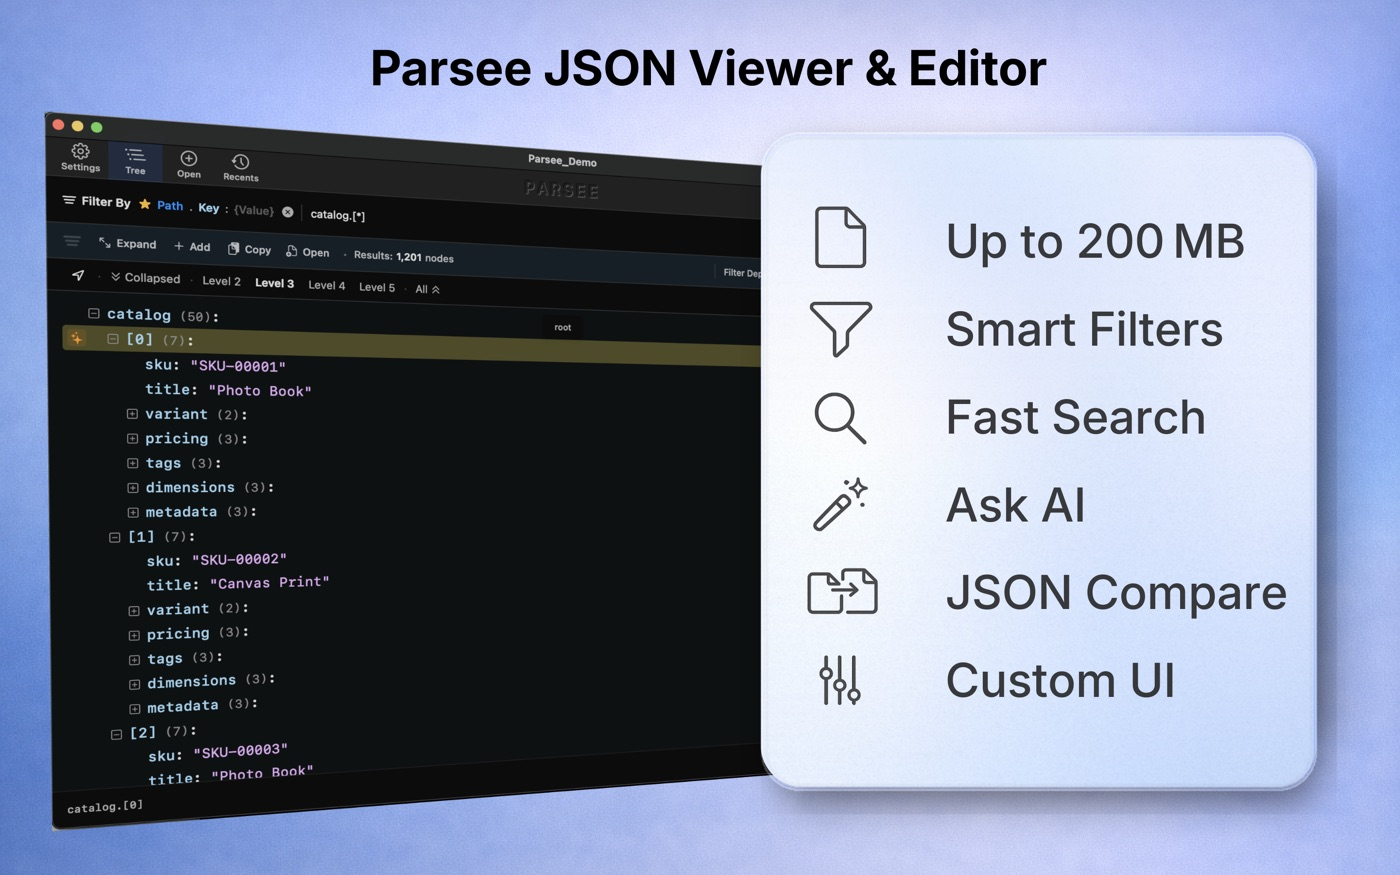
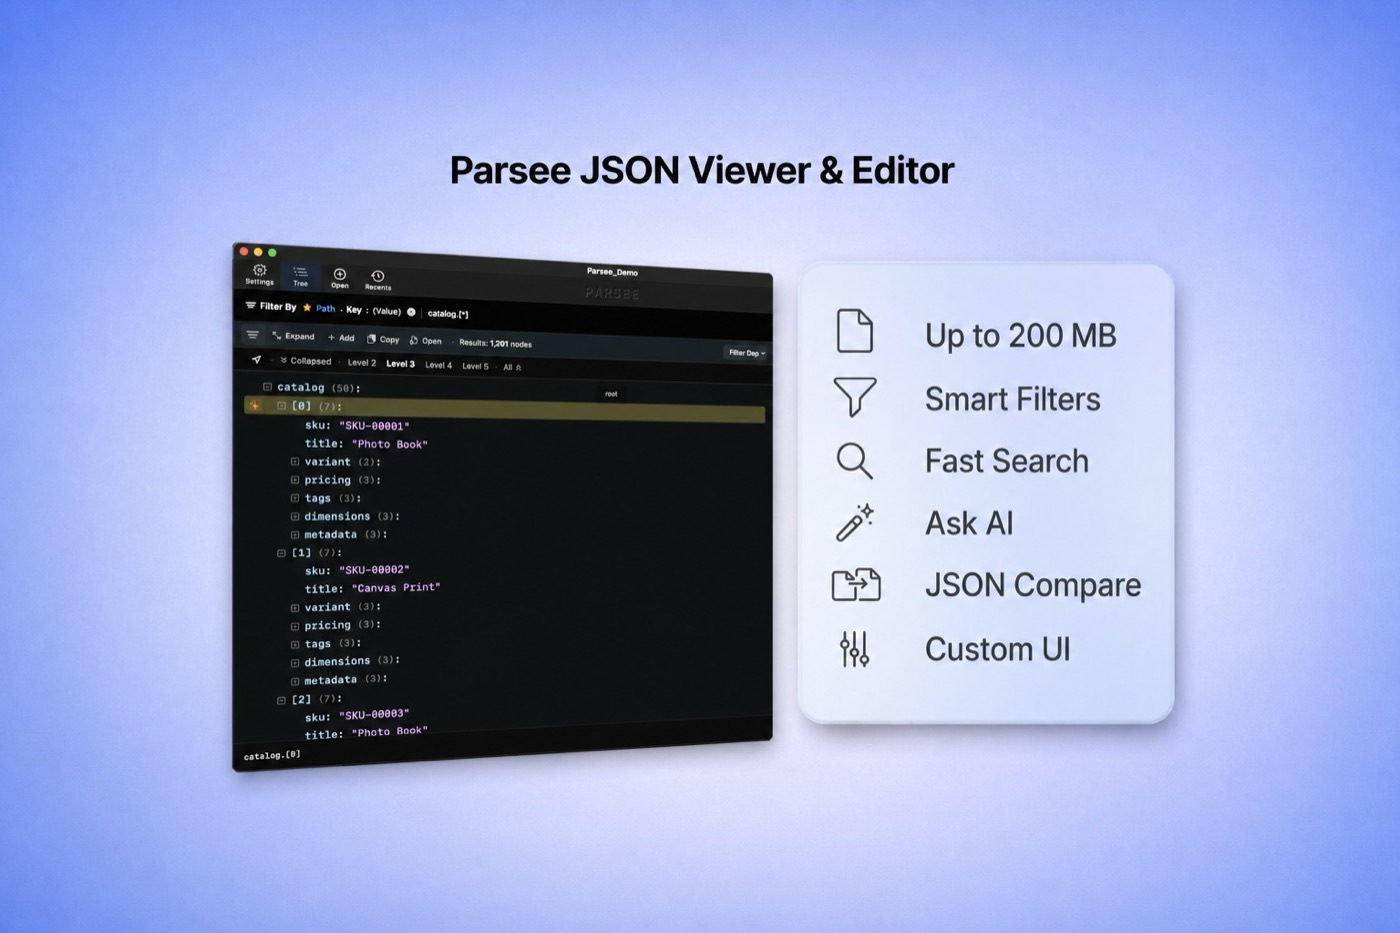
content: new Parsee hero image; Bond website link
- Replace Parsee hero with a wider-padded version of the same shot.
  The previous image had content reaching the right edge; this one
  has generous lavender padding around the window + feature panel,
  so we can safely use object-fit: cover to fill the cell without
  cropping anything important.
- styles: switch .app-visual-parsee img back to object-fit: cover
  now that the image has padding to spare.
- Add a "Visit site →" CTA on the Bond card pointing at
  https://nimomix.github.io/bond-app/en/.

diff --git a/index.html b/index.html
@@ -73,6 +73,9 @@
           <h3 class="app-name">Bond</h3>
           <p class="app-tag">Agreements made simple.</p>
           <p class="app-desc">Create, share, sign, and track personal agreements with the people who matter most. Coffee owed, freelance contract, or anything in between — iOS first, Hebrew &amp; English.</p>
+          <div class="app-cta">
+            <a class="btn btn-primary" href="https://nimomix.github.io/bond-app/en/">Visit site →</a>
+          </div>
         </div>
         <div class="app-visual app-visual-bond">
           <img src="images/bond-onboarding.png" alt="Bond iPhone onboarding screen">

diff --git a/styles.css b/styles.css
@@ -229,10 +229,10 @@ a { color: var(--accent); text-decoration: none; }
 }
 .app-visual-parsee img {
   width: 100%;
-  height: auto;
-  max-width: 100%;
+  height: 100%;
+  max-width: none;
   max-height: none;
-  object-fit: initial;
+  object-fit: cover;
   border-radius: 0;
   box-shadow: none;
   display: block;
